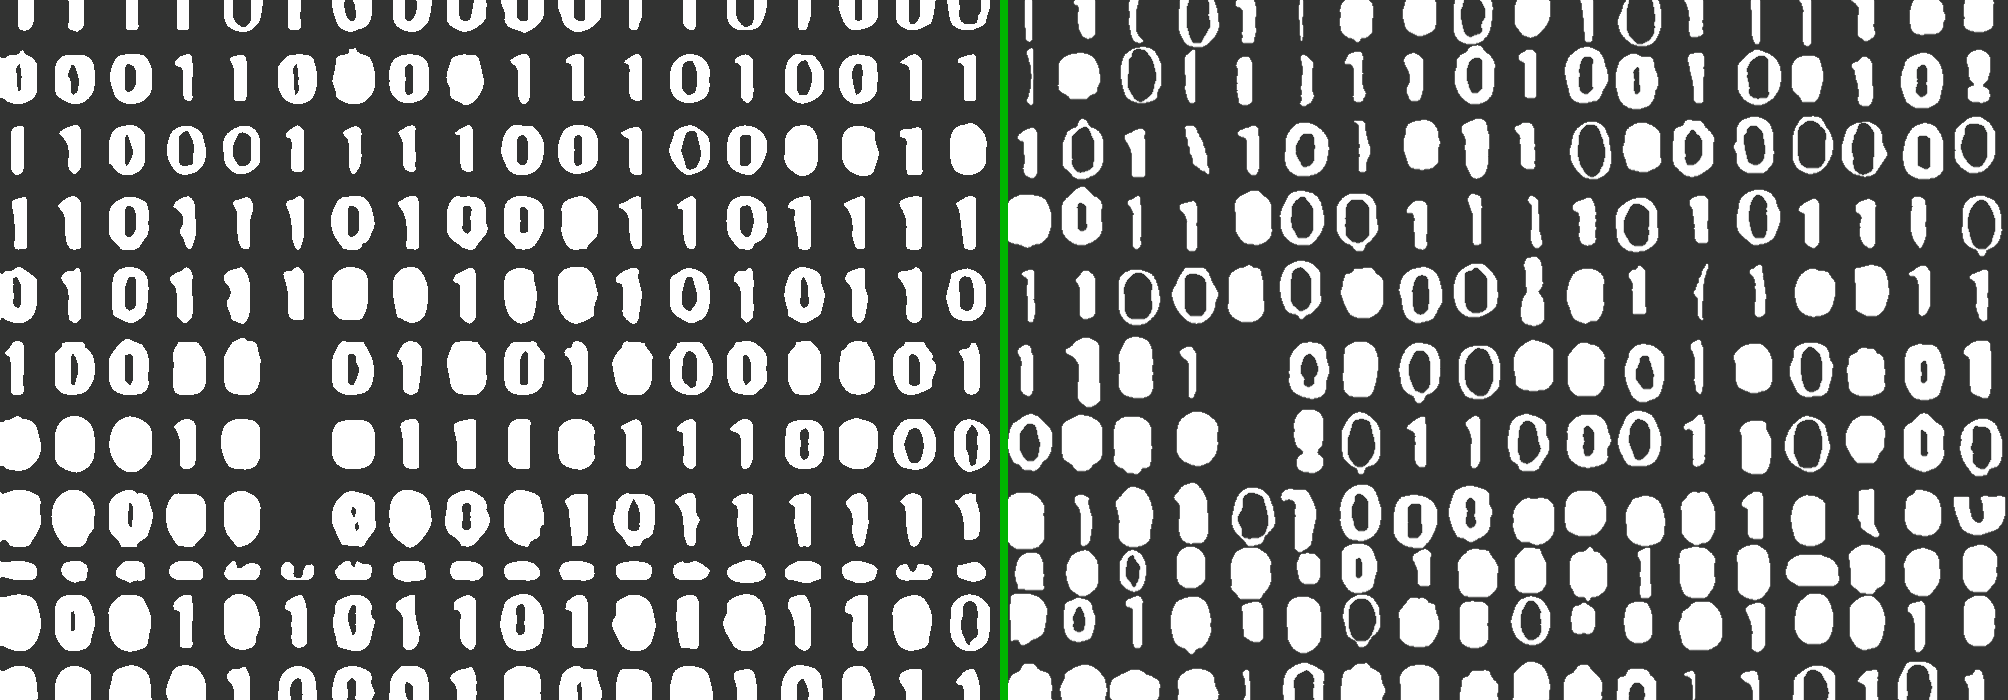
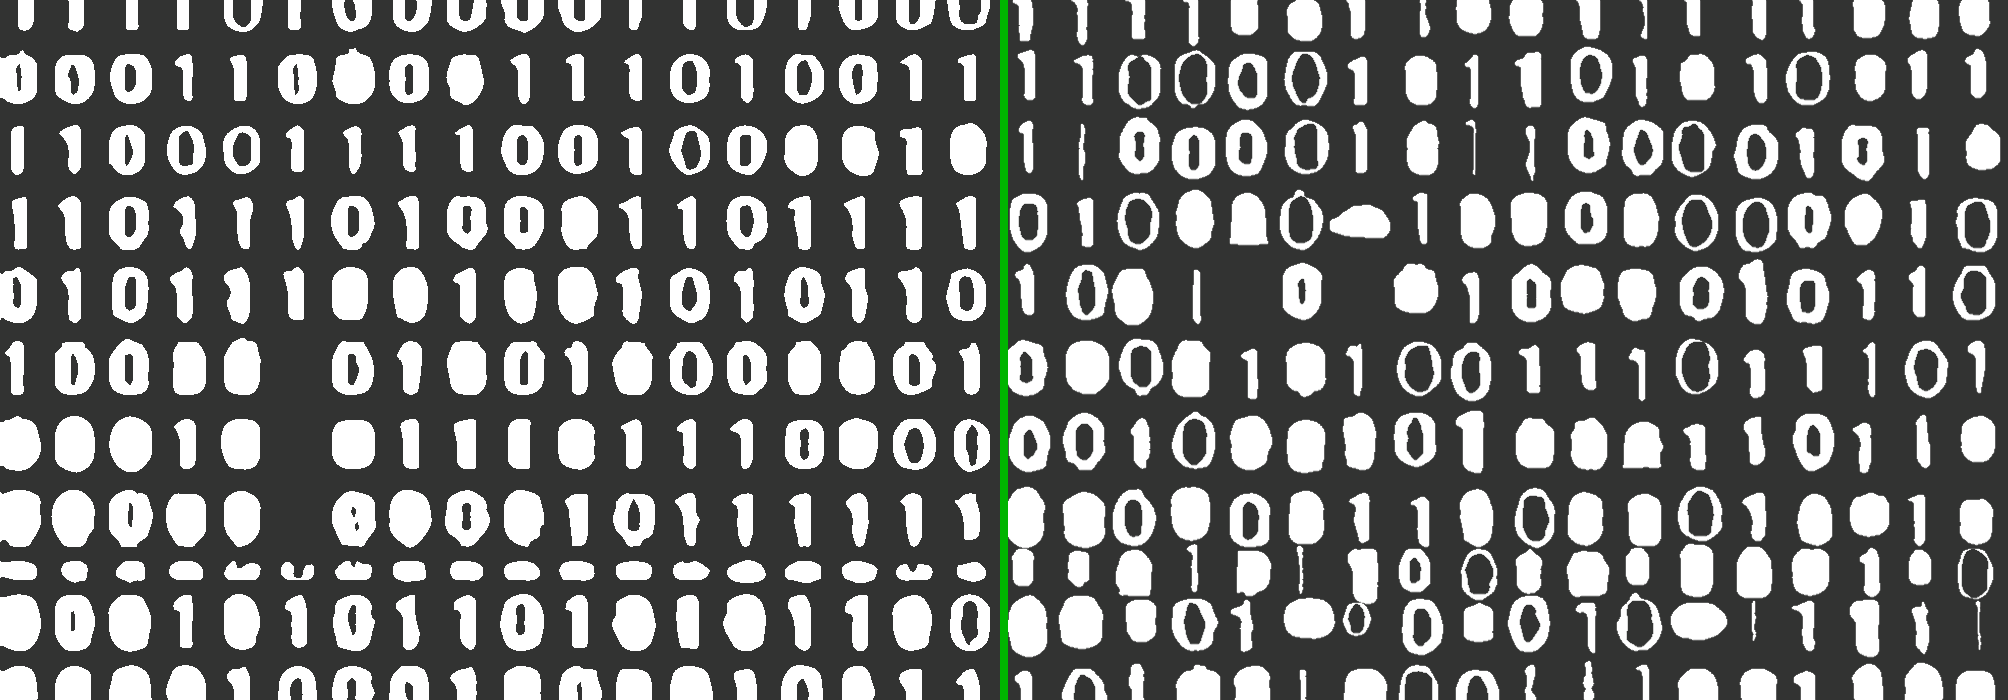
Refactor code structure and remove redundant sections for improved readability and maintainability

Changed region(s): [[0.494, 0.0, 1.0, 1.0]]

diff --git a/python/s6_content_map.py b/python/s6_content_map.py
@@ -1,0 +1,227 @@
+"""Stage 6: per-cell CONTENT MAP, sampled 100% from the validated pixels.
+
+For EVERY grid cell (no exception) decide its content directly from the same
+validated binarization the extractor uses — NOT from connected-component->grid
+assignment (which drops cells where dense blobs merge). Each cell becomes one of
+{empty, 0, 1, blob}:
+
+  coverage < TAU_EMPTY                         -> empty
+  enclosed hole present & coverage moderate    -> '0'   (the counter)
+  filled (high coverage), no hole              -> 'blob'
+  thin / low coverage, no hole                 -> '1'
+
+Thresholds were calibrated from the per-cell metric distributions of the
+confidently-labelled glyphs (see _recon/cell_metrics). Output:
+  data/interim/content_map.json  (n_rows x n_cols grid of types + coverage)
+  reports/s6_content_map*.png     (colour overlay for visual validation)
+"""
+import json
+import numpy as np
+import cv2
+from scipy.ndimage import label
+import common as C
+
+# --- calibrated thresholds (per-cell pixel metrics; measured distributions) ---
+# A '1' is a thin TALL stroke -> LOW coverage by nature, so emptiness is decided
+# by white AREA, never by coverage (coverage<X wrongly ate the thinnest 1s).
+# With an un-padded window the width gap is clean: 1 width<=24, blob width>=33.
+MIN_AREA = 100      # white px below -> empty, UNLESS a tall thin '1' stroke (below)
+TAU_HOLE = 60       # enclosed-background px to count as a '0' counter
+ZERO_COV_MAX = 0.40  # a real '0' never fills this much (guards dense masses w/ pockets)
+ONE_WBB = 29        # white-bbox width at/below -> '1' (clean gap to blob's >=33)
+ONE_COV_MAX = 0.25  # border-only: above this a clipped-narrow cell is a blob, not '1'
+TALL_MIN = 30       # a thin '1' stroke is this tall even when its area is tiny
+THIN1_AREA = 40     # floor so 1-2px noise isn't promoted to a '1'
+HOLE_PAD = 8        # extra px for the hole window so a jittered '0' ring still closes
+
+
+def _edges(centers, pitch):
+    """Cell boundaries = midpoints to the neighbouring grid centers (Voronoi in 1-D).
+    Adapts to NON-UNIFORM spacing: a squeezed row/col gets a narrow cell instead of
+    the fixed pitch, so its window stops at the neighbour and never bleeds into it.
+    Ends fall back to half-pitch."""
+    c = np.asarray(centers, float); n = len(c)
+    lo = np.empty(n); hi = np.empty(n)
+    for i in range(n):
+        lo[i] = (c[i - 1] + c[i]) / 2 if i > 0 else c[i] - pitch / 2
+        hi[i] = (c[i] + c[i + 1]) / 2 if i < n - 1 else c[i] + pitch / 2
+    return lo, hi
+
+
+def _crop(M, xl, xr, yt, yb):
+    H, W = M.shape
+    x0 = max(0, int(round(xl))); x1 = min(W, int(round(xr)))
+    y0 = max(0, int(round(yt))); y1 = min(H, int(round(yb)))
+    return M[y0:y1, x0:x1], x0, y0
+
+
+def _band(M, xl, xr, yt, yb, gy):
+    """Crop the ADAPTIVE cell window, then keep only the contiguous white ROW-BAND
+    around the cell center (bounded by whitespace gaps). The center-midpoint boundary
+    can fall inside a TALL neighbour row's glyph tail (when this row's glyphs are much
+    smaller); clipping to the band that holds the cell's own glyph drops that tail.
+    Returns (band_mask, x0, y0) with neighbour rows zeroed, or (None, x0, y0)."""
+    w, x0, y0 = _crop(M, xl, xr, yt, yb)
+    if w.size == 0:
+        return None, x0, y0
+    rp = w.sum(1)
+    runs = []
+    i = 0
+    while i < len(rp):
+        if rp[i] > 0:
+            j = i
+            while j + 1 < len(rp) and rp[j + 1] > 0:
+                j += 1
+            runs.append((i, j)); i = j + 1
+        else:
+            i += 1
+    if not runs:
+        return None, x0, y0
+    ci = gy - y0
+    a, b = min(runs, key=lambda rn: -1 if rn[0] - 1 <= ci <= rn[1] + 1
+               else min(abs(rn[0] - ci), abs(rn[1] - ci)))
+    if not (a - 1 <= ci <= b + 1) and min(abs(a - ci), abs(b - ci)) > 0.30 * len(rp):
+        return None, x0, y0
+    band = np.zeros_like(w); band[a:b + 1] = w[a:b + 1]
+    return band, x0, y0
+
+
+def _hole(mask):
+    """Enclosed-background area inside a glyph mask (its '0' counter, if any)."""
+    wp = np.pad(mask, HOLE_PAD, constant_values=False)
+    lab, n = label(~wp)
+    border = set(lab[0, :]).union(lab[-1, :]).union(lab[:, 0]).union(lab[:, -1])
+    return sum(int((lab == i).sum()) for i in range(1, n + 1) if i not in border)
+
+
+def cell_metrics(M, xl, xr, yt, yb, gx, gy):
+    """Whole-band metrics (single glyph): area, white-bbox w/h, coverage, hole,
+    centroid offset from the grid center. Used for diagnostics / the overview type."""
+    band, x0, y0 = _band(M, xl, xr, yt, yb, gy)
+    if band is None:
+        return 0, 0, 0, 0.0, 0, 0.0, 0.0
+    area = int(band.sum()); cov = float(band.mean())
+    hw = (xr - xl) / 2; hh = (yb - yt) / 2
+    ys_i, xs_i = np.nonzero(band)
+    if xs_i.size:
+        wbb = int(xs_i.max() - xs_i.min() + 1); hbb = int(ys_i.max() - ys_i.min() + 1)
+        offx = max(-hw, min(hw, float(xs_i.mean() + x0 - gx)))
+        offy = max(-hh, min(hh, float(ys_i.mean() + y0 - gy)))
+        r0, r1 = ys_i.min(), ys_i.max() + 1
+        hole = _hole(band[r0:r1])
+    else:
+        wbb = hbb = 0; offx = offy = 0.0; hole = 0
+    return area, wbb, hbb, cov, int(hole), offx, offy
+
+
+def cell_glyphs(M, xl, xr, yt, yb, gx, gy, border=False):
+    """Per-cell glyph LIST. Most cells hold one glyph; where the validated pixels
+    show 2+ SEPARATED ink components (a real gap between them — e.g. two narrow
+    columns the grid merged into one cell), each becomes its own glyph. A single '0'
+    is ONE connected component, so its hole never causes a false split. Returns a
+    list of {t, bw, bh, cx, cy} (cx,cy absolute px). 8-connectivity keeps a glyph
+    whole; edge slivers from a neighbour column are dropped by area + centrality."""
+    band, x0, y0 = _band(M, xl, xr, yt, yb, gy)
+    if band is None:
+        return []
+    lab, n = label(band, structure=np.ones((3, 3), int))   # 8-connected
+    win_area = band.size; full_w = xr - xl
+    out = []
+    for cid in range(1, n + 1):
+        ys_i, xs_i = np.nonzero(lab == cid)
+        if xs_i.size == 0:
+            continue
+        cxw = float(xs_i.mean() + x0); cyw = float(ys_i.mean() + y0)
+        if abs(cxw - gx) > 0.42 * full_w:        # neighbour sliver, not this cell's glyph
+            continue
+        area = int(xs_i.size)
+        wbb = int(xs_i.max() - xs_i.min() + 1); hbb = int(ys_i.max() - ys_i.min() + 1)
+        x0c, x1c = xs_i.min(), xs_i.max() + 1; y0c, y1c = ys_i.min(), ys_i.max() + 1
+        hole = _hole((lab[y0c:y1c, x0c:x1c] == cid))
+        t = classify(area, wbb, hbb, area / win_area, hole, border)
+        if t == "empty":
+            continue
+        # fill = ink / bbox area: the original glyph's INTERNAL density (it drops
+        # toward the right as glyphs dissolve). Reconstruction matches it per glyph.
+        out.append({"t": t, "bw": wbb, "bh": hbb, "cx": round(cxw, 1), "cy": round(cyw, 1),
+                    "fill": round(area / max(1, wbb * hbb), 3)})
+    return out
+
+
+def classify(area, wbb, hbb, cov, hole, border=False):
+    thin1 = wbb <= ONE_WBB and hbb >= TALL_MIN and area >= THIN1_AREA
+    if area < MIN_AREA and not thin1:
+        return "empty"
+    if hole >= TAU_HOLE and cov < ZERO_COV_MAX:
+        return "0"
+    # WIDTH is the primary 1-vs-blob signal (clean gap: 1<=24px, blob>=33px).
+    # At the image border the window is clipped so a wide blob can look narrow;
+    # there only, a high coverage (which a thin '1' never has) overrides to blob.
+    if wbb <= ONE_WBB and not (border and cov >= ONE_COV_MAX):
+        return "1"
+    return "blob"
+
+
+def build():
+    g = json.loads((C.INTERIM / "grid.json").read_text())
+    cc = np.array(g["col_centers"]); rc = np.array(g["row_centers"])
+    px, py = g["pitch_x"], g["pitch_y"]; nR, nC = g["n_rows"], g["n_cols"]
+    M = C.binarize(C.load_gray()).astype(bool)
+    xlo, xhi = _edges(cc, px); ylo, yhi = _edges(rc, py)  # adaptive cell bounds
+
+    cells = [["empty"] * nC for _ in range(nR)]    # main (cell-center) glyph type, for the overview
+    glyphs = []                                    # flat placement list the reconstruction renders
+    split_cells = 0
+    counts = {"0": 0, "1": 0, "blob": 0}
+    for r in range(nR):
+        for col in range(nC):
+            gl = cell_glyphs(M, xlo[col], xhi[col], ylo[r], yhi[r], cc[col], rc[r],
+                             border=(col == 0 or col == nC - 1))
+            if not gl:
+                continue
+            if len(gl) >= 2:
+                split_cells += 1
+            for gph in gl:
+                glyphs.append(gph)
+                counts[gph["t"]] += 1
+            cells[r][col] = min(gl, key=lambda gp: abs(gp["cx"] - cc[col]))["t"]
+
+    out = {"n_rows": nR, "n_cols": nC, "cells": cells, "glyphs": glyphs}
+    (C.INTERIM / "content_map.json").write_text(json.dumps(out))
+    print(f"content map: {len(glyphs)} glyphs {counts}; {split_cells} cells split into 2+ glyphs")
+
+    # spot-check the dense all-blob region the user flagged
+    from collections import Counter
+    reg = [cells[r][col] for r in range(22, 26) for col in range(0, 18)]
+    print("rows22-25 x cols0-17 (should be all blob):", dict(Counter(reg)))
+
+    _overlay(M, cells, xlo, xhi, ylo, yhi, nR, nC)
+    return out
+
+
+def _overlay(M, cells, xlo, xhi, ylo, yhi, nR, nC):
+    """Tint every cell by its class over the original (white glyphs on dark),
+    using the adaptive cell bounds so squeezed rows show their true extent."""
+    base = np.where(M[..., None], 255, np.array(C.BG_RGB[::-1], np.uint8)[None, None, :]).astype(np.uint8)
+    color = {"0": (255, 60, 60), "1": (40, 220, 40), "blob": (40, 40, 255), "empty": None}
+    vis = base.copy()
+    for r in range(nR):
+        for col in range(nC):
+            t = cells[r][col]
+            if color.get(t) is None:
+                continue
+            x0, y0 = int(round(xlo[col])), int(round(ylo[r]))
+            x1, y1 = int(round(xhi[col])), int(round(yhi[r]))
+            vis[y0:y1, x0:x1] = (0.62 * vis[y0:y1, x0:x1] + 0.38 * np.array(color[t])).astype(np.uint8)
+    # full thumbnail + native crops for validation
+    H, W = base.shape[:2]
+    cv2.imwrite(str(C.REPORTS / "s6_content_map_overview.png"),
+                cv2.resize(vis, (W // 6, H // 6), interpolation=cv2.INTER_AREA))
+    crops = {"dense_blobs": (0, 1540, 1010, 1845), "mix": (1700, 600, 2700, 1000)}
+    for name, (x0, y0, x1, y1) in crops.items():
+        cv2.imwrite(str(C.REPORTS / f"s6_content_map_{name}.png"), vis[y0:y1, x0:x1])
+    print("wrote reports/s6_content_map*.png  (blue=0, green=1, red=blob, untinted=empty)")
+
+
+if __name__ == "__main__":
+    build()

diff --git a/python/generate.py b/python/generate.py
@@ -55,6 +55,14 @@ class Generator:
         # per-class: True = one fixed scale (strict "quadradinho" look); False = use
         # the position field. 0/1 are uniform in the source; blobs grow into the dissolve.
         self.uniform_size = {"0": True, "1": True, "blob": False}
+        # RECONSTRUCTION "esvaecimento" (glyphs lose internal ink toward the right):
+        # (1) per-glyph in _place_fit a '0' resizes its HOLE to match its measured
+        #     fill (thick walls left, thin right) — the right tool for 0s;
+        # (2) a gentle rightward EROSION field thins blobs/1s as they dissolve.
+        self.fade = True
+        self.fade_x0 = 0.50     # fraction of width where thinning starts
+        self.fade_k = 3.4       # slope
+        self.fade_max = 2.2     # max erosion (px-ish)
         pj = C.MODEL / "gen_params.json"
         if pj.exists():
             for k, v in json.loads(pj.read_text()).items():
@@ -162,6 +170,44 @@ class Generator:
                 out2 = self._boot(self.sm["blob"], min_sol=0.88)
                 cv2.fillPoly(cov, [(out2 * size + [cx + 0.62 * px, cy]).astype(np.int32)], 255, lineType=AA)
 
+    def _place_fit(self, cov, t, cx, cy, tw, th, fill=None):
+        """RECONSTRUCTION placement: GENERATE a glyph of type t from the mold (new
+        outline sampled), scale its bbox to the target size (tw x th) at (cx,cy abs),
+        AND match the original glyph's FILL ratio (internal ink density, which fades
+        toward the right). Shape = mold; size/position/fill = the original's layout.
+        A '0' matches fill by resizing its HOLE (thicker walls = fuller); a blob/1
+        matches by eroding the solid shape. No collision (dense blobs touch)."""
+        area_box = max(1e-6, tw * th)
+
+        def tf(o, sx, sy, bx, by):
+            return np.column_stack([(o[:, 0] - bx) * sx + cx, (o[:, 1] - by) * sy + cy])
+
+        if t == "0":
+            outer, inner = self._boot0()
+            x, y = outer[:, 0], outer[:, 1]
+            bx = (x.min() + x.max()) / 2.0; by = (y.min() + y.max()) / 2.0
+            sx = tw / max(1e-6, x.max() - x.min()); sy = th / max(1e-6, y.max() - y.min())
+            fo = tf(outer, sx, sy, bx, by); fi = tf(inner, sx, sy, bx, by)
+            if fill is not None:                       # nudge the hole toward target fill:
+                oa = abs(cv2.contourArea(fo.astype(np.float32)))   # smaller hole = thicker
+                ia = abs(cv2.contourArea(fi.astype(np.float32)))   # walls = fuller (left),
+                des_i = oa - fill * area_box                       # bigger = thinner (right)
+                if ia > 60:
+                    # gentle, capped: thicken/thin walls modestly but NEVER close the
+                    # hole (>=60px floor + s>=0.85) so a '0' never turns into a blob
+                    s = 0.85 if des_i <= 0 else min(1.15, max(0.85, (des_i / ia) ** 0.5))
+                    s = max(s, (60.0 / ia) ** 0.5)
+                    fi = (fi - [cx, cy]) * s + [cx, cy]
+            cv2.fillPoly(cov, [fo.astype(np.int32)], 255, lineType=AA)
+            cv2.fillPoly(cov, [fi.astype(np.int32)], 0, lineType=AA)
+            return fi.astype(np.int32)                  # hole, to re-punch after all glyphs
+        else:
+            out = self._boot(self.sm[t], min_sol=(0.88 if t == "blob" else 0.0))
+            x, y = out[:, 0], out[:, 1]
+            bx = (x.min() + x.max()) / 2.0; by = (y.min() + y.max()) / 2.0
+            sx = tw / max(1e-6, x.max() - x.min()); sy = th / max(1e-6, y.max() - y.min())
+            cv2.fillPoly(cov, [tf(out, sx, sy, bx, by).astype(np.int32)], 255, lineType=AA)
+
     def render(self):
         """Variation: sample occupancy AND type per cell, then GENERATE each glyph."""
         cov = np.zeros((self.s["H"], self.s["W"]), np.uint8)
@@ -180,27 +226,46 @@ class Generator:
         """Reconstruction: GENERATE each glyph FROM THE MOLD (new shape+size sampled,
         from scratch — nothing copied), but honour the ORIGINAL's content: each cell
         gets the SAME type it has in the original (0/1/blob/empty), never a sampled
-        type. So 'cell has a 0' -> generate a brand-new 0 from the mold in that cell."""
-        comps = json.loads((C.INTERIM / "components_classified.json").read_text())
+        type. So 'cell has a 0' -> generate a brand-new 0 from the mold in that cell.
+
+        The content map is built per-cell from the validated pixels (s6_content_map),
+        NOT from connected-component->grid assignment — which dropped cells wherever
+        dense blobs merged (leaving holes) and mis-typed a few. Every cell of the grid
+        is honoured here, with no exception."""
+        cm = json.loads((C.INTERIM / "content_map.json").read_text())
         cov = np.zeros((self.s["H"], self.s["W"]), np.uint8)
-        nC, nR = self.s["n_cols"], self.s["n_rows"]
-        px = self.s["pitch_x"]
-        kernel = cv2.getStructuringElement(cv2.MORPH_ELLIPSE, (2 * self.gap + 1, 2 * self.gap + 1))
         placed = {"0": 0, "1": 0, "blob": 0}
-        for c in comps:
-            cls = c["cls"]; r, col = c["row"], c["col"]
-            if not (0 <= r < nR and 0 <= col < nC):
-                continue
-            if cls == "blob_merged":          # original had a fused pair -> blobs in its cells
-                span = max(1, int(round(c["w"] / px)))
-                for s in range(span):
-                    self._place(cov, "blob", r, min(nC - 1, col - span // 2 + s), kernel)
-                    placed["blob"] += 1
-                continue
-            self._place(cov, cls, r, col, kernel)   # generate that exact type, from scratch
-            placed[cls] += 1
+        # content map is a flat list of glyph placements (a cell with two narrow
+        # glyphs the grid merged contributes two entries); each is generated from
+        # the mold, fitted to its measured size+position.
+        holes = []
+        for gph in cm["glyphs"]:
+            h = self._place_fit(cov, gph["t"], gph["cx"], gph["cy"], gph["bw"], gph["bh"],
+                                 gph.get("fill"))
+            if h is not None:
+                holes.append(h)
+            placed[gph["t"]] += 1
+        if self.fade:
+            cov = self._apply_fade(cov)              # gentle rightward thinning (blobs/1s)
+        # re-punch the '0' counters LAST so a neighbour glyph drawn over them in the
+        # dense region can't fill them in (else a '0' reads as a solid blob)
+        for h in holes:
+            cv2.fillPoly(cov, [h], 0, lineType=AA)
         placed["dot"] = self._draw_small(cov)        # faithful small-dot detail layer
         return cov, placed
+
+    def _apply_fade(self, cov):
+        """Gentle rightward erosion: blends cov -> eroded per column by a weight that
+        rises toward the right, thinning blobs/1s as they dissolve (0s are matched
+        per-glyph via their hole, so this is a light top-up for the rest)."""
+        W = cov.shape[1]
+        w = np.clip((np.arange(W) / W - self.fade_x0) * self.fade_k, 0, self.fade_max)
+        er1 = cv2.erode(cov, np.ones((3, 3), np.uint8))
+        er2 = cv2.erode(cov, np.ones((5, 5), np.uint8))
+        w1 = np.clip(w, 0, 1)[None, :]; w2 = np.clip(w - 1, 0, 1)[None, :]
+        covf = cov * (1 - w1) + er1 * w1
+        covf = covf * (1 - w2) + er2 * w2
+        return np.clip(covf, 0, 255).astype(np.uint8)
 
     def _draw_region(self, cov, region, off):
         """Copy the component's EXACT mask into cov (hard edges, full fill) -> a